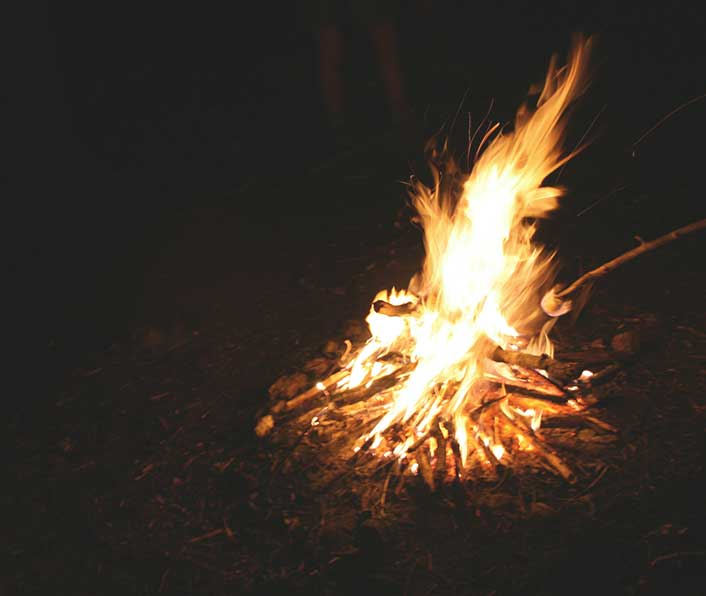
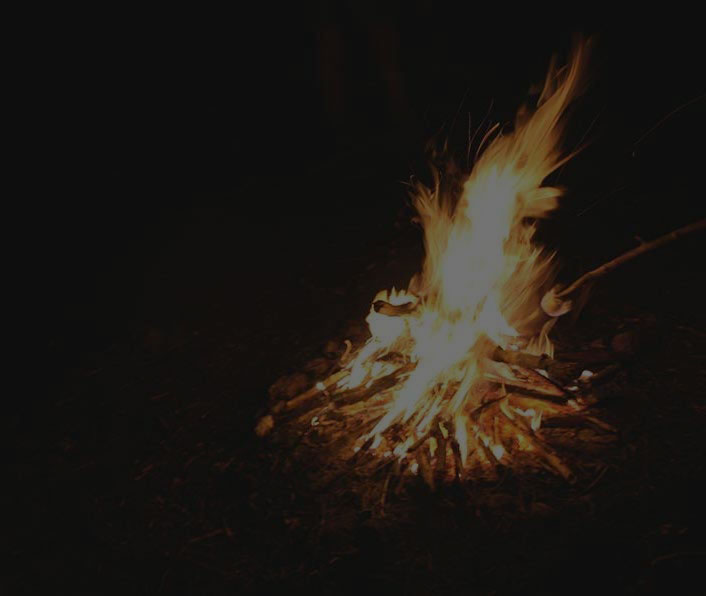
blog fixes

diff --git a/less/style.less b/less/style.less
@@ -150,6 +150,8 @@
     }
 
     &.blog {
+      text-align: left;
+
       // cool overlay
       &:after {
         content: '';
@@ -161,6 +163,44 @@
         z-index: 0;
         top: 0;
         left: 0;
+      }
+
+      > a {
+        padding: 30px 40px;
+        min-height: 100%;
+      }
+
+      h4 {
+        font-family: @brandon;
+        text-align: left;
+        text-transform: uppercase;
+        font-weight: 600;
+        letter-spacing: 1px;
+      }
+
+      .rssFeed {
+        ul {
+          padding-left: 0;
+          margin-top: 30px;
+        }
+
+        li {
+          padding-left: 40px;
+          overflow: visible;
+          background: url('../img/blog-icon.svg') no-repeat 3px 5px;
+          background-size: 23px 28px;
+          padding-bottom: 10px;
+        }
+
+        h4 {
+          font-size: 24px;
+        }
+
+        p {
+          font-size: 18px;
+          font-family: @din;
+          letter-spacing: .2px;
+        }
       }
     }
   }
@@ -192,7 +232,7 @@
 .row-3 {
   height: 390px;
   font-size: 0;
-  background-color: @goatbrown; 
+  background-color: @goatbrown;
 
   .box {
     display: inline-block;

diff --git a/css/style.css b/css/style.css
@@ -202,6 +202,9 @@
 .row-2 .box.donate p {
   padding: 0 10%;
 }
+.row-2 .box.blog {
+  text-align: left;
+}
 .row-2 .box.blog:after {
   content: '';
   display: block;
@@ -212,6 +215,36 @@
   z-index: 0;
   top: 0;
   left: 0;
+}
+.row-2 .box.blog > a {
+  padding: 30px 40px;
+  min-height: 100%;
+}
+.row-2 .box.blog h4 {
+  font-family: "brandon-grotesque", sans-serif;
+  text-align: left;
+  text-transform: uppercase;
+  font-weight: 600;
+  letter-spacing: 1px;
+}
+.row-2 .box.blog .rssFeed ul {
+  padding-left: 0;
+  margin-top: 30px;
+}
+.row-2 .box.blog .rssFeed li {
+  padding-left: 40px;
+  overflow: visible;
+  background: url('../img/blog-icon.svg') no-repeat 3px 5px;
+  background-size: 23px 28px;
+  padding-bottom: 10px;
+}
+.row-2 .box.blog .rssFeed h4 {
+  font-size: 24px;
+}
+.row-2 .box.blog .rssFeed p {
+  font-size: 18px;
+  font-family: 'din-condensed-web', sans-serif;
+  letter-spacing: .2px;
 }
 @media (max-width: 975px) {
   .row-2:before,

diff --git a/index.html b/index.html
@@ -17,13 +17,10 @@
   <script type="text/javascript">
     $(document).ready(function () {
     $('#rss').rssfeed('http://blog.goattrips.org/feed/', {limit: 2, date: false, header: false}, function (e) {
-
-
-        $('h4 a', e).each(function (i) {
-            var title = $(this).text();
-            if (title.length > 14) $(this).text(title.substring(0, 14) + '...');
-
-        });
+      $('h4 a', e).each(function (i) {
+        var title = $(this).text();
+        if (title.length > 14) $(this).text(title.substring(0, 14) + '...');
+      });
     });
 });
 
@@ -109,7 +106,10 @@
         </a>
       </div>
       <div class="box blog">
-        <div id="rss"></div>
+        <a href="">
+          <h4 class="fittext">Blog &amp; Updates</h4>
+          <div id="rss"></div>
+        </a>
       </div>
     </div>
     <div class="row-fluid row-3">
